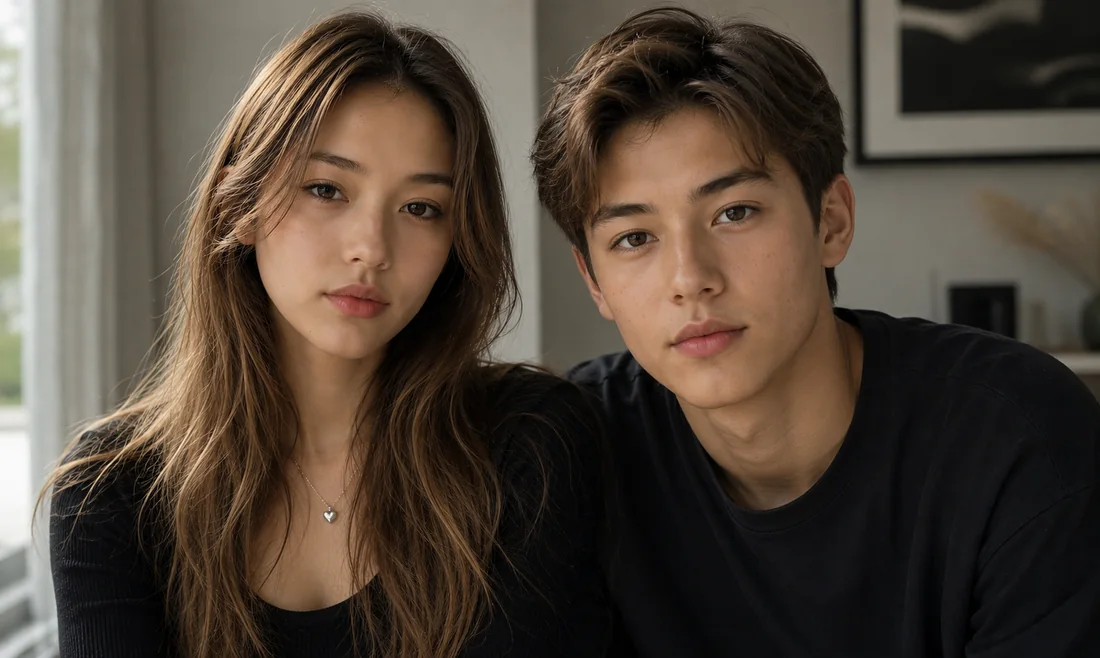
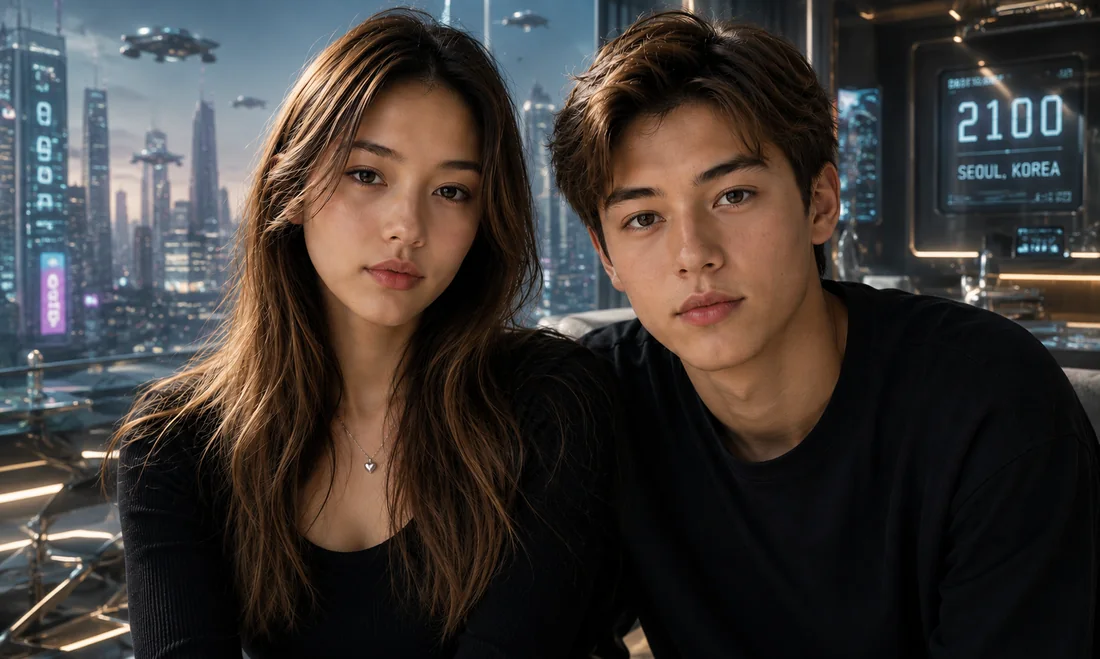
티저 사진을 2100년 서울 배경 버전으로 교체

diff --git a/index.html b/index.html
@@ -195,7 +195,7 @@
         <p class="teaser-en">THE PRICE OF IMMORTALITY</p>
         <p class="teaser-sub">내러티브 생존 어드벤처 · 모바일</p>
         <figure class="teaser-shot">
-          <img src="assets/teaser-immortality.webp" alt="스무 살 얼굴의 두 사람" loading="lazy" width="1100" height="658">
+          <img src="assets/teaser-immortality.webp?v=2" alt="2100년 서울, 스무 살 얼굴의 두 사람" loading="lazy" width="1100" height="659">
           <figcaption>실제나이는 100살 외모는 20살<br>젊은 외모에 많은 나이가 부의 상징이 된 세상</figcaption>
         </figure>
         <p>

diff --git a/en/index.html b/en/index.html
@@ -173,7 +173,7 @@
         <p class="teaser-en">THE PRICE OF IMMORTALITY</p>
         <p class="teaser-sub">Narrative survival adventure · Mobile</p>
         <figure class="teaser-shot">
-          <img src="../assets/teaser-immortality.webp" alt="Two people with twenty-year-old faces" loading="lazy" width="1100" height="658">
+          <img src="../assets/teaser-immortality.webp?v=2" alt="Seoul in 2100, two people with twenty-year-old faces" loading="lazy" width="1100" height="659">
           <figcaption>Real age 100, looks 20<br>A world where a young face and old age became the symbol of wealth</figcaption>
         </figure>
         <p>
